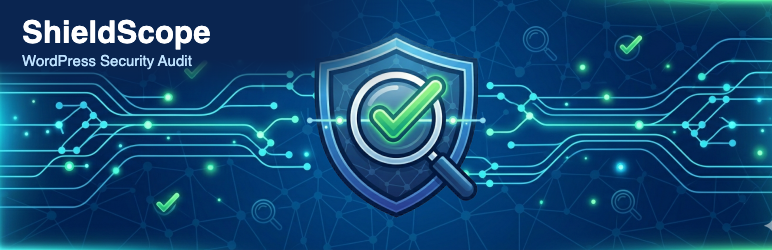
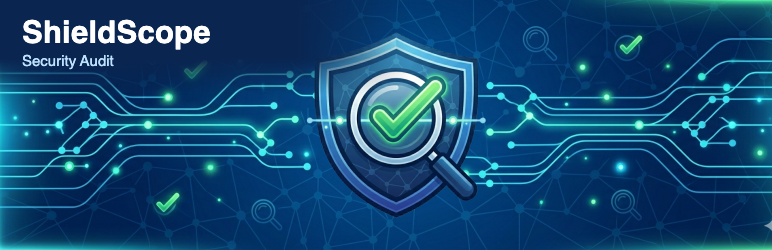
Plugin Check fixes: plugin name, prepared SQL, sanitized input
Plugin Check 2.2.0 (WordPress 7.1.5, Local site) reported:
- trademarked_term (readme and header): "WordPress" may not be used in a
  plugin name. Renamed to "ShieldScope – Security Audit"; the banner
  subtitle now reads "Security Audit" (S-27 had introduced the term).
- WordPress.DB.PreparedSQL.NotPrepared (x2): the excluded post types in
  the database content query are now %s placeholders passed to
  $wpdb->prepare() (CONTENT_SKIP_TYPES is an array).
- InputNotSanitized: the ignore handler passes $_POST['fp'] through
  sanitize_key() before keeping hex characters.

After the fixes, `wp plugin check shieldscope-site-security-scanner`
reports no errors or warnings, also with --include-experimental and
low-severity errors and warnings. Suite: 438 passing.

Changed region(s): [[0.0311, 0.224, 0.2487, 0.28]]

diff --git a/includes/checks/class-shieldscope-check-database.php b/includes/checks/class-shieldscope-check-database.php
@@ -151,7 +151,7 @@ class ShieldScope_Check_Database extends ShieldScope_Check_Base {
 	/**
 	 * Post types that hold cached or temporary copies, not site content.
 	 */
-	const CONTENT_SKIP_TYPES = "'revision','attachment','nav_menu_item','oembed_cache','customize_changeset'";
+	const CONTENT_SKIP_TYPES = array( 'revision', 'attachment', 'nav_menu_item', 'oembed_cache', 'customize_changeset' );
 
 	/**
 	 * Content rules, worst first: key => array( severity, title ).
@@ -245,8 +245,21 @@ class ShieldScope_Check_Database extends ShieldScope_Check_Base {
 				continue;
 			}
 
-			// phpcs:ignore WordPress.DB.DirectDatabaseQuery.DirectQuery,WordPress.DB.DirectDatabaseQuery.NoCaching,WordPress.DB.PreparedSQL.InterpolatedNotPrepared -- read-only scan; CONTENT_SKIP_TYPES is a constant.
-			$posts = $wpdb->get_results( $wpdb->prepare( "SELECT ID, post_type, post_content FROM {$wpdb->posts} WHERE ID > %d AND post_type NOT IN (" . self::CONTENT_SKIP_TYPES . ') ORDER BY ID ASC LIMIT %d', (int) $cursor['after'], self::CONTENT_BATCH ), ARRAY_A );
+			$skip_types = self::CONTENT_SKIP_TYPES;
+			// phpcs:ignore WordPress.DB.DirectDatabaseQuery.DirectQuery,WordPress.DB.DirectDatabaseQuery.NoCaching -- read-only scan of stored content.
+			$posts = $wpdb->get_results(
+				$wpdb->prepare(
+					"SELECT ID, post_type, post_content FROM {$wpdb->posts} WHERE ID > %d AND post_type NOT IN (%s, %s, %s, %s, %s) ORDER BY ID ASC LIMIT %d",
+					(int) $cursor['after'],
+					$skip_types[0],
+					$skip_types[1],
+					$skip_types[2],
+					$skip_types[3],
+					$skip_types[4],
+					self::CONTENT_BATCH
+				),
+				ARRAY_A
+			);
 			foreach ( (array) $posts as $post ) {
 				$cursor['after'] = (int) $post['ID'];
 				$this->report_content_match(

diff --git a/includes/class-shieldscope-ignore.php b/includes/class-shieldscope-ignore.php
@@ -169,7 +169,7 @@ class ShieldScope_Ignore {
 
 		// phpcs:disable WordPress.Security.NonceVerification.Missing -- nonce checked above.
 		$do  = isset( $_POST['do'] ) ? sanitize_key( wp_unslash( $_POST['do'] ) ) : '';
-		$fp  = isset( $_POST['fp'] ) ? preg_replace( '/[^a-f0-9]/', '', (string) wp_unslash( $_POST['fp'] ) ) : '';
+		$fp  = isset( $_POST['fp'] ) ? preg_replace( '/[^a-f0-9]/', '', sanitize_key( wp_unslash( $_POST['fp'] ) ) ) : '';
 		$msg = '';
 		if ( 'restore' === $do ) {
 			self::restore( $fp );

diff --git a/shieldscope-site-security-scanner.php b/shieldscope-site-security-scanner.php
@@ -1,6 +1,6 @@
 <?php
 /**
- * Plugin Name:       ShieldScope – WordPress Security Audit
+ * Plugin Name:       ShieldScope – Security Audit
  * Plugin URI:        https://wordpress.org/plugins/shieldscope-site-security-scanner/
  * Description:       Security audit for WordPress core, plugins, themes, users, files and server settings. Runs from your admin screen in short steps and reports findings by severity.
  * Version:           2.0.0
